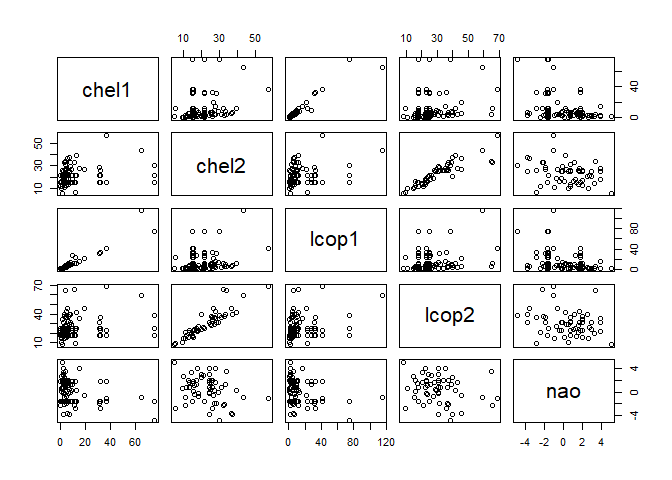
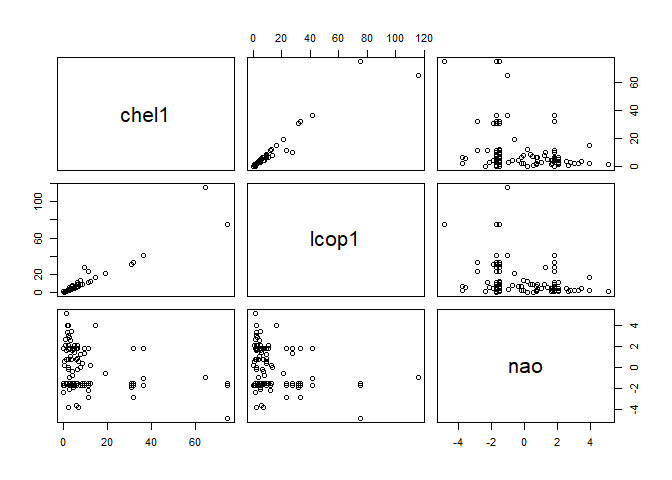
corrplots described

diff --git a/README.md b/README.md
@@ -33,14 +33,14 @@ wykorzystane następujące biblioteki: - datasets
 - ggplot2  
 - gganimate  
 - dplyr  
-- gridExtra
+- gridExtra - gifski package
 
 Zapewnienie powtarzalności wyników przy każdym uruchomieniu raportu na tych samych danych
 =========================================================================================
 
-Aby zapewnić powtarzalność próbkowań i losowań liczb przy każdym
-odpaleniu programu ustawiono stałe ziarno.  
-***\[TODO\]*** Ogarnąć na końcu czy tego potrzebujemy
+Aby zapewnić powtarzalność próbkowań i losowań liczb (m. inn. przy
+próbkowaniu zbioru) przy każdym odpaleniu programu ustawiono stałe
+ziarno.
 
     set.seed(23)
 
@@ -314,66 +314,40 @@ Korelacja między zmiennymi
 ==========================
 
 W niniejszej sekcji została przeanalizowana korelacja między
-atrybutami.Na początek przedstawiono liczbową korelacje między
-atrybutemi wraz z jej graficzną macierzą korelacji.
+atrybutami.Na początek przedstawiono współczynniki korelacji wraz z
+graficzną macierzą korelacji.
 
 Największa korelacja występuje między atrybutem *chel1* i *lcop1* -
-czyli między dostępnością planktonu dwóch gatunków) i wynosi ona 0.96,
-między *chel2* i *lcop2* - współczynnik korelacji wynosi 0.89 a także
-między *cumf* ( łączne roczne natężenie połowów w regionie) a *fbar*
-(natężenie połowów w regionie) - wynosi 0.82 (zależność między tymi
-ostatnimi wynika z tego że na podstawie jednego z tych atrybutów w
-naturalny sposób oblicza się dtugi z nich).
+czyli między dostępnością planktonu dwóch gatunków i wynosi ona 0.96.
+Między *chel2* i *lcop2* - współczynnik korelacji wynosi 0.89, a między
+*cumf* ( łączne roczne natężenie połowów w regionie) a *fbar* (natężenie
+połowów w regionie): 0.82 (zależność między tymi ostatnimi wynika
+prawdopodobnie z tego, że na podstawie jednego z tych atrybutów w
+naturalny sposób oblicza się dtugi z nich). Wysoka korelacja występuje
+także między *cfin2* a *lcop2*, gdzie współczynnik korelacji jest równy
+0.65.
 
-Bardzo niski, jednak ujemny współczynnik korelacji miedzy atrybutem
-*lcop1* a *neo* (oscylacja północnoatlantycka) świadczy o wysokiej, ale
-odwrotnej zaleznosci tych atrybutów. Może to być wyjaśnione z punktu
-widzenia przyrody przez to, że plankton może być przenoszony przez prądy
-morskie.
+Bardzo niski, jednak ujemny współczynnik korelacji (wynoszący -0.55)
+miedzy atrybutem *lcop1* a *neo* (oscylacja północnoatlantycka) świadczy
+o wysokiej, ale odwrotnej zaleznosci tych atrybutów. Może to być
+wyjaśnione z punktu widzenia przyrody przez to, że plankton może być
+przenoszony przez prądy morskie.
 
-Długość śledzia jest najbardziej skorelowana z temperaturą przy
-powierzchni wody, a współczynnik tej korelacji wynosi -0.45 (czyli są to
-wartości odwrotnie zależne)
+Niski ujemny współczynnik korelacji wskazujący na wysoką korelacje
+atrybutów można też zauważyć między *cumf* (łączne roczne natężenie
+połowów w regionie) a *totaln* (łączna liczba ryb złowionych w ramach
+połowu) - wynosi on -0.71, gdzie taka zależność też jest naturalna.
 
-***\[TODO\]*** Ogarnąć brakujące wartości
+Jeśli chodzi o atrybut, którego będą dotyczyć badania w dalszej części
+pracy, czyli ługość śledzia, to jest najbardziej skorelowana z
+temperaturą przy powierzchni wody, a współczynnik tej korelacji wynosi
+-0.45 (czyli są to wartości odwrotnie zależne)
+
+***\[TODO\]*** Ogarnąć brakujące wartości  
+***\[TODO\]*** Zmniejszyć tekst w srodku zebybylo widac
 
     res <- cor(na.omit(data))
-    round(res, 2)
-
-    ##            X length cfin1 cfin2 chel1 chel2 lcop1 lcop2  fbar  recr  cumf
-    ## X       1.00  -0.34 -0.15  0.06 -0.17  0.05 -0.23  0.04  0.09  0.00  0.23
-    ## length -0.34   1.00  0.08  0.10  0.22 -0.01  0.24  0.05  0.26 -0.01  0.01
-    ## cfin1  -0.15   0.08  1.00  0.15  0.10  0.20  0.12  0.21 -0.06  0.12 -0.05
-    ## cfin2   0.06   0.10  0.15  1.00  0.00  0.31 -0.04  0.65  0.15 -0.10  0.34
-    ## chel1  -0.17   0.22  0.10  0.00  1.00  0.29  0.96  0.25  0.16 -0.05  0.07
-    ## chel2   0.05  -0.01  0.20  0.31  0.29  1.00  0.17  0.89  0.03  0.00  0.26
-    ## lcop1  -0.23   0.24  0.12 -0.04  0.96  0.17  1.00  0.15  0.09  0.01 -0.01
-    ## lcop2   0.04   0.05  0.21  0.65  0.25  0.89  0.15  1.00  0.05  0.00  0.29
-    ## fbar    0.09   0.26 -0.06  0.15  0.16  0.03  0.09  0.05  1.00 -0.24  0.82
-    ## recr    0.00  -0.01  0.12 -0.10 -0.05  0.00  0.01  0.00 -0.24  1.00 -0.26
-    ## cumf    0.23   0.01 -0.05  0.34  0.07  0.26 -0.01  0.29  0.82 -0.26  1.00
-    ## totaln -0.36   0.10  0.13 -0.22  0.17 -0.38  0.27 -0.30 -0.51  0.37 -0.71
-    ## sst     0.36  -0.45  0.01 -0.24 -0.22  0.01 -0.27 -0.12 -0.18 -0.20  0.03
-    ## sal    -0.06   0.03  0.13 -0.08 -0.15 -0.22 -0.10 -0.19  0.04  0.28 -0.10
-    ## xmonth  0.00   0.01  0.01  0.02  0.05  0.07  0.03  0.06  0.01  0.02  0.04
-    ## nao     0.41  -0.26  0.01 -0.01 -0.51 -0.06 -0.55 -0.04  0.07  0.09  0.23
-    ##        totaln   sst   sal xmonth   nao
-    ## X       -0.36  0.36 -0.06   0.00  0.41
-    ## length   0.10 -0.45  0.03   0.01 -0.26
-    ## cfin1    0.13  0.01  0.13   0.01  0.01
-    ## cfin2   -0.22 -0.24 -0.08   0.02 -0.01
-    ## chel1    0.17 -0.22 -0.15   0.05 -0.51
-    ## chel2   -0.38  0.01 -0.22   0.07 -0.06
-    ## lcop1    0.27 -0.27 -0.10   0.03 -0.55
-    ## lcop2   -0.30 -0.12 -0.19   0.06 -0.04
-    ## fbar    -0.51 -0.18  0.04   0.01  0.07
-    ## recr     0.37 -0.20  0.28   0.02  0.09
-    ## cumf    -0.71  0.03 -0.10   0.04  0.23
-    ## totaln   1.00 -0.29  0.15  -0.03 -0.39
-    ## sst     -0.29  1.00  0.01  -0.01  0.51
-    ## sal      0.15  0.01  1.00  -0.03  0.12
-    ## xmonth  -0.03 -0.01 -0.03   1.00  0.00
-    ## nao     -0.39  0.51  0.12   0.00  1.00
+    #round(res, 2)
 
     library(corrplot)
 
@@ -386,19 +360,48 @@ wartości odwrotnie zależne)
 Żeby lepiej zwizualizować korelacje między omówionymi atrybutami
 przedstawiono wykresy zależności tych atrybutów.
 
-    plot(data[,c(5,6,7,8,16)])
+    plot(data[,c(5,7,16)])
 
 ![](README_files/figure-markdown_strict/unnamed-chunk-12-1.png)
 
-    plot(data[,c(2,9,11,13)])
+W przypadku zaprezentowanych powyżej danych, zgodnie z wartościami
+mieszczącymi się w macierzy korelacji, największą korelacje
+(współczynnik korelacji wynoszący 0.96) widać między dostępnością
+planktonu pierwszego gatunku Calanus helgolandicus (*chel1*) a
+zagęszczeniem widłonogów z gatunku pierwszego (*lcop2*). Z wykresu
+wynika, że im więcej jednego plantonu w łowisku, tym spotkać tam można
+więcej drugiego z wymienionych planktonów.  
+Zależność między *lcop2* a oscylacja północnoatlantycka *neo* nie jest
+aż tak widoczna na wykresie (choć też da się ją zauważyć).
+
+***\[TODO\]*** o co chodzi z tymi poziomymi i pionowymi kreskami?
+
+    plot(data[,c(6,8,4)])
 
 ![](README_files/figure-markdown_strict/unnamed-chunk-13-1.png)
 
+Podobnie jak na poprzednim wykresie, i tu najbardziej widoczna jest
+korelacja między dostępnością dwóch z gatunków planktonu.
+
+    plot(data[,c(9,11,12)])
+
+![](README_files/figure-markdown_strict/unnamed-chunk-14-1.png)
+
+Na powyższym wykresie korelacji najbardziej widać odwrotnie
+proporcjonalną zależność między *fbar* a *totaln* - współczynnik
+korelacjiwynoszący -0.71) i *cumf* a *totaln*. Można wyraźnie zauważyć
+że im więcej pierwszego z atrybutów, tym mniej drugiego i odwrotnie.  
+Wysoce proporcjonalne są zmienne *fbar* i *cumf*.
+
+    plot(data[,c(2,13)])
+
+![](README_files/figure-markdown_strict/unnamed-chunk-15-1.png)
+
+***\[TODO\]*** Nie mam pojęcia jak opisać ten wykres, jak sie nie dowiem
+to wywalić :P
+
 Zmiana rozmiaru śledzia w czasie
 ================================
-
-//Interaktywny wykres lub animacja prezentująca zmianę rozmiaru śledzi w
-czasie.
 
     library(ggplot2)
     library(gganimate)
@@ -419,8 +422,6 @@ czasie.
     ## 
     ##     intersect, setdiff, setequal, union
 
-    #gifski package
-
     p <- ggplot(
       na.omit(data), #ogarnąć brakujące dane
       aes(X, length, group = xmonth, color = factor(xmonth))
@@ -432,25 +433,22 @@ czasie.
 
     p + geom_point() + transition_reveal(X)
 
-![](README_files/figure-markdown_strict/unnamed-chunk-15-1.gif) //TODO -
-ogarnac kwestie brakujacych danych //TODO - pobawic sie w pogrupowanie
-tych miesiecy w pory roku zeby nie bylo tak brzydko na wykresie
+![](README_files/figure-markdown_strict/unnamed-chunk-17-1.gif)
+***\[TODO\]*** ogarnac kwestie brakujacych danych  
+***\[TODO\]*** pobawic sie w pogrupowanie tych miesiecy w pory roku zeby
+nie bylo tak brzydko na wykresie
 
 Przewidywanie rozmiaru śledzia
 ==============================
 
-//TODO Sekcję próbującą stworzyć regresor przewidujący rozmiar śledzia
-(w tej sekcji należy wykorzystać wiedzę z pozostałych punktów oraz
-wykonać dodatkowe czynności, które mogą poprawić trafność predykcji);
-dobór parametrów modelu oraz oszacowanie jego skuteczności powinny
-zostać wykonane za pomocą techniki podziału zbioru na dane uczące,
-walidujące i testowe; trafność regresji powinna zostać oszacowana na
-podstawie miar R2 i RMSE.
+W niniejszej sekcji zostanie podjęta próba stworzenia regresora
+przewidującego rozmiar śledzia.  
+***\[TODO\]*** ogarnąć te regresory
 
 Analiza ważnośći atrybutów najlepszego znalezionego modelu regresji
 ===================================================================
 
-//TODO Analiza ważności atrybutów najlepszego znalezionego modelu
-regresji. Analiza ważności atrybutów powinna stanowić próbę odpowiedzi
-na pytanie: co sprawia, że rozmiar śledzi zaczął w pewnym momencie
-maleć.
+***\[TODO\]*** Analiza ważności atrybutów najlepszego znalezionego
+modelu regresji. Analiza ważności atrybutów powinna stanowić próbę
+odpowiedzi na pytanie: co sprawia, że rozmiar śledzi zaczął w pewnym
+momencie maleć.
